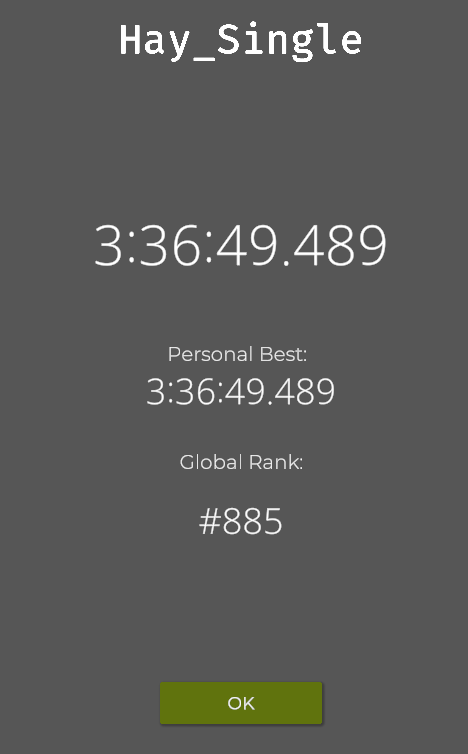
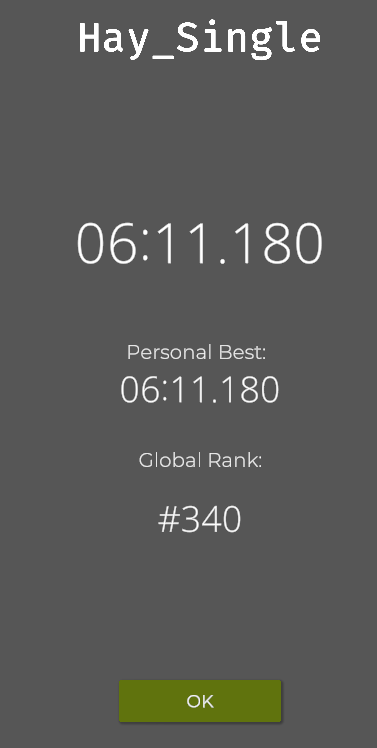
Improve hay single leaderboard score

diff --git a/Hay Farming/README.md b/Hay Farming/README.md
@@ -26,6 +26,6 @@ Note: Using hay_farm_polyculture.py. To make the code leaderboard applicable, ch
 
 ### Hay_Single
 
-Note: Using hay_farm_single.py. To make the code leaderboard applicable, change the `while True` in the drone functions to `while < 100000000`.
+Note: Note: Using hay_farm_polyculture.py and deleting the code that spawns multiple drones. To make the code leaderboard applicable, change the `while True` in the drone functions to `while < 100000000`.
 
 ![hay_single_leaderboard](./img/hay_single_leaderboard.png)